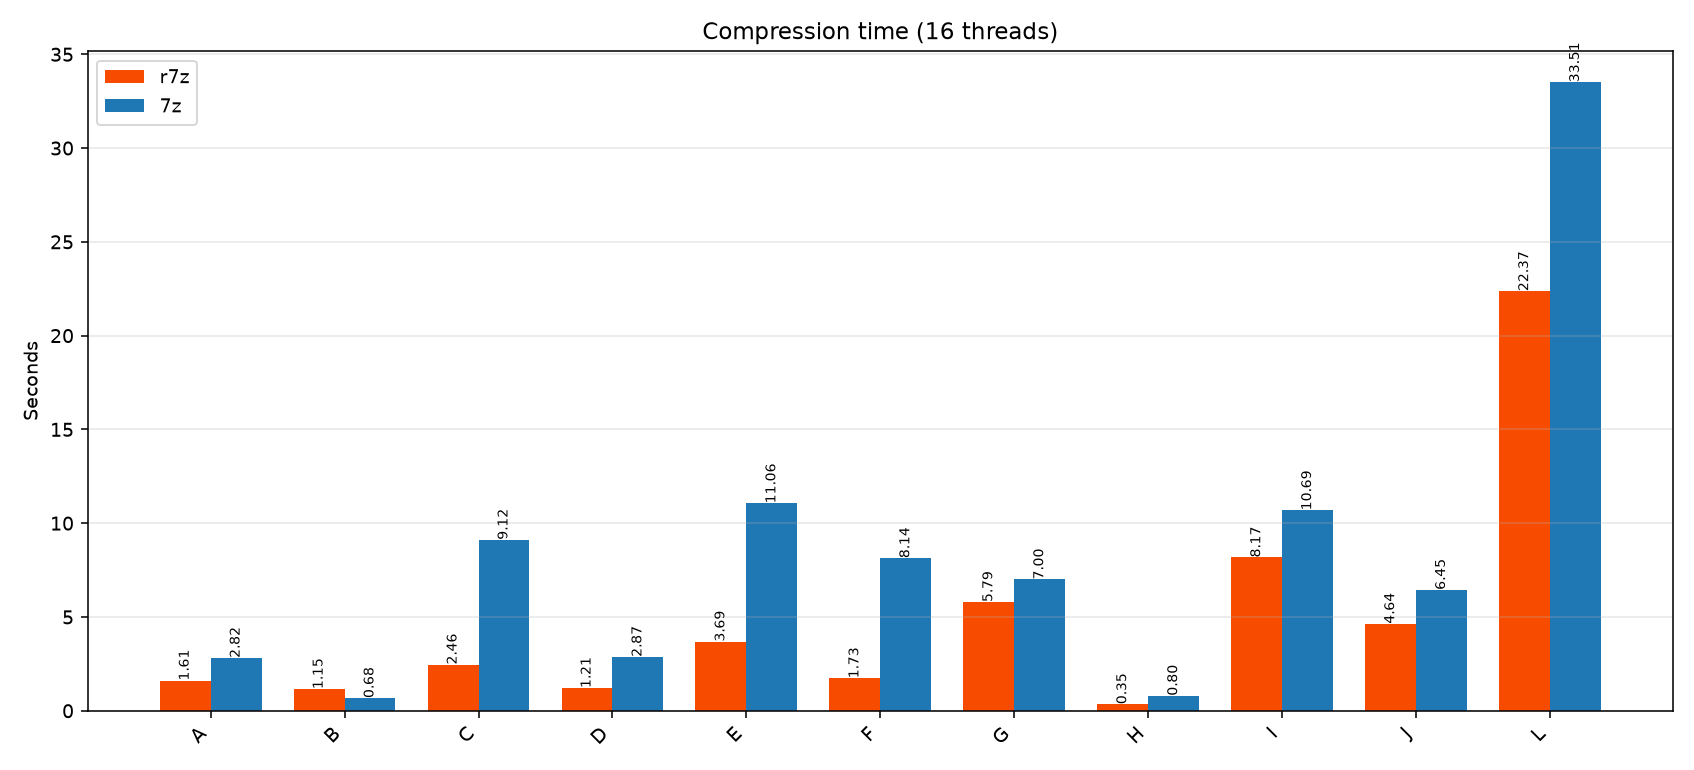
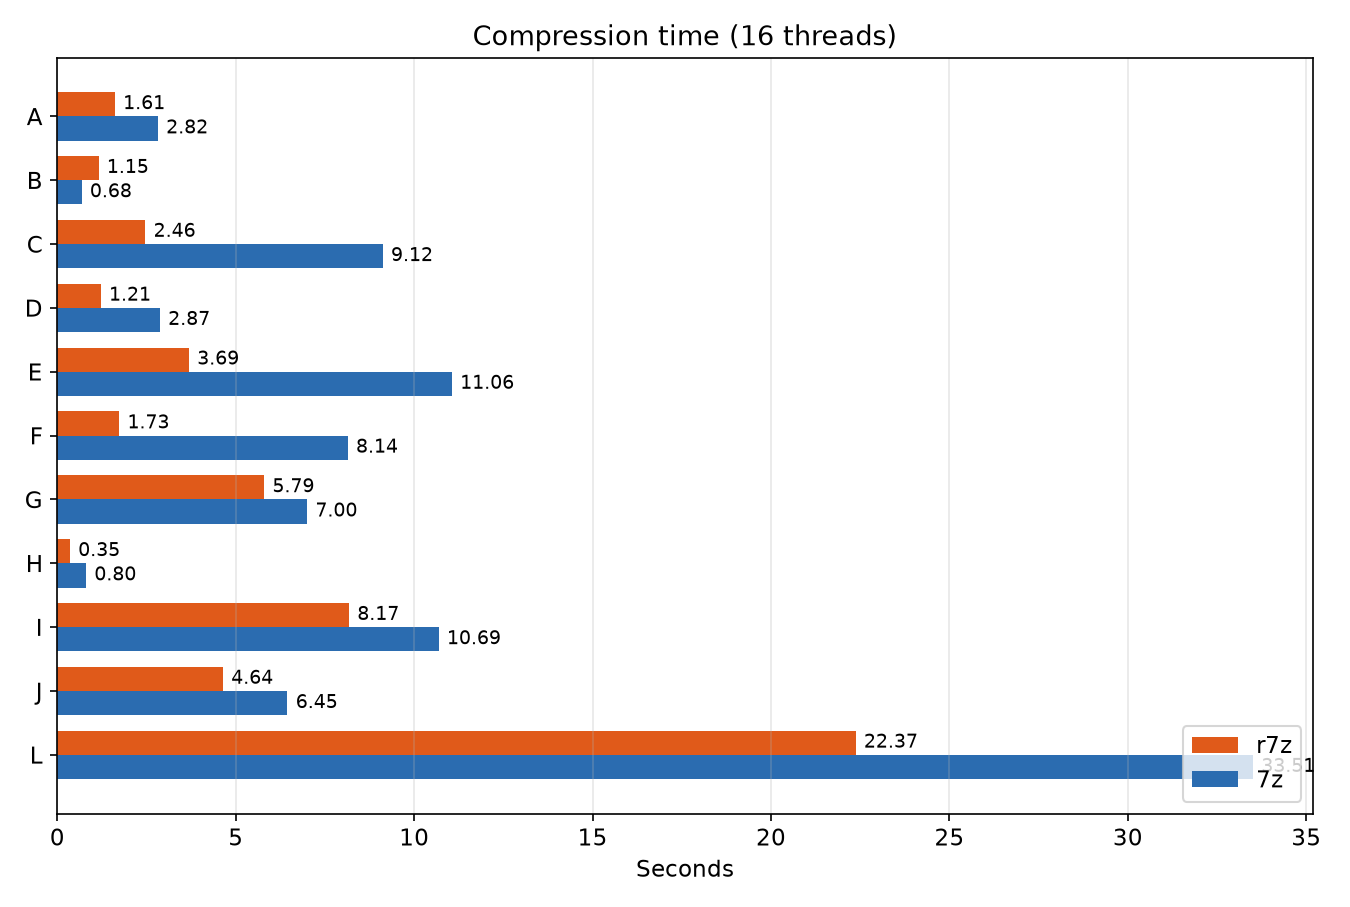
Refresh README with latest 11-scenario benchmark numbers and readable charts

Changed region(s): [[0.0, 0.0312, 0.9956, 0.9662]]

diff --git a/scripts/plot_benchmark.py b/scripts/plot_benchmark.py
@@ -1,6 +1,5 @@
 #!/usr/bin/env python3
-"""Render benchmark_report.md into PNG charts with exact value labels."""
-import re
+"""Render benchmark_report.md into readable PNG charts with exact value labels."""
 from pathlib import Path
 
 import matplotlib
@@ -26,7 +25,8 @@ for line in REPORT.read_text(encoding="utf-8").splitlines():
 
 scenarios = sorted(set(r["scn"] for r in rows))
 tools = ["r7z", "7z"]
-colors = {"r7z": "#f74c00", "7z": "#1f77b4"}
+colors = {"r7z": "#e05a1a", "7z": "#2b6cb0"}
+plt.rcParams.update({"font.size": 11, "axes.titlesize": 13, "axes.labelsize": 11})
 
 def vals_for(mode, thr, metric):
     out = {}
@@ -41,49 +41,55 @@ def vals_for(mode, thr, metric):
                 out[tool].append(matches[0]["rss"] / 1024 if matches else 0)
     return out
 
-def make_chart(mode, thr, metric, title, ylabel, fname):
+def hbar(mode, thr, metric, title, xlabel, fname):
     data = vals_for(mode, thr, metric)
-    x = np.arange(len(scenarios))
-    width = 0.38
-    fig, ax = plt.subplots(figsize=(max(10, len(scenarios) * 1.1), 5.5))
+    y = np.arange(len(scenarios))
+    height = 0.38
+    fig, ax = plt.subplots(figsize=(9, max(6, len(scenarios) * 0.55)))
     for i, tool in enumerate(tools):
-        bars = ax.bar(x + (i - 0.5) * width, data[tool], width,
-                      label=tool, color=colors[tool])
+        bars = ax.barh(y + (i - 0.5) * height, data[tool], height,
+                       label=tool, color=colors[tool])
         for b, v in zip(bars, data[tool]):
-            ax.annotate(f"{v:.2f}", (b.get_x() + b.get_width() / 2, b.get_height()),
-                        ha="center", va="bottom", fontsize=7, rotation=90)
-    ax.set_xticks(x)
-    ax.set_xticklabels(scenarios, rotation=45, ha="right")
-    ax.set_ylabel(ylabel)
+            ax.annotate(f"{v:.2f}", (v, b.get_y() + b.get_height() / 2),
+                        ha="left", va="center", fontsize=9, xytext=(4, 0),
+                        textcoords="offset points")
+    ax.set_yticks(y)
+    ax.set_yticklabels(scenarios)
+    ax.invert_yaxis()
+    ax.set_xlabel(xlabel)
     ax.set_title(title)
-    ax.legend()
-    ax.grid(axis="y", alpha=0.3)
+    ax.legend(loc="lower right")
+    ax.grid(axis="x", alpha=0.3)
     fig.tight_layout()
-    fig.savefig(OUT / fname, dpi=140)
+    fig.savefig(OUT / fname, dpi=150)
     plt.close(fig)
 
-make_chart("compress", 1, "t", "Compression time (single thread)", "Seconds", "bench_time_compress_1t.png")
-make_chart("compress", 16, "t", "Compression time (16 threads)", "Seconds", "bench_time_compress_16t.png")
-make_chart("decompress", 1, "t", "Decompression time (single thread)", "Seconds", "bench_time_decompress.png")
-make_chart("compress", 1, "rss", "Peak memory (single thread, compress)", "MB", "bench_memory.png")
+hbar("compress", 1, "t", "Compression time (1 thread)", "Seconds", "bench_time_compress_1t.png")
+hbar("compress", 16, "t", "Compression time (16 threads)", "Seconds", "bench_time_compress_16t.png")
+hbar("decompress", 1, "t", "Decompression time (1 thread)", "Seconds", "bench_time_decompress.png")
+hbar("compress", 1, "rss", "Peak memory (1 thread, compress)", "MB", "bench_memory.png")
 
-# Speedup ratio chart (7z_time / r7z_time) for compress, single thread
+# Speedup ratio chart
 r7z_t = vals_for("compress", 1, "t")["r7z"]
 sevenz_t = vals_for("compress", 1, "t")["7z"]
-speedup = [ (s / r) if r > 0 else 0 for s, r in zip(sevenz_t, r7z_t) ]
-fig, ax = plt.subplots(figsize=(max(10, len(scenarios) * 1.1), 5))
-bars = ax.bar(scenarios, speedup, color="#2ca02c")
+speedup = [(s / r) if r > 0 else 0 for s, r in zip(sevenz_t, r7z_t)]
+fig, ax = plt.subplots(figsize=(9, max(6, len(scenarios) * 0.55)))
+y = np.arange(len(scenarios))
+bars = ax.barh(y, speedup, color="#2f855a")
 for b, v in zip(bars, speedup):
-    ax.annotate(f"{v:.2f}x", (b.get_x() + b.get_width() / 2, b.get_height()),
-                ha="center", va="bottom", fontsize=8)
-ax.axhline(1.0, color="red", linestyle="--", linewidth=1, label="parity (1.0x)")
-ax.set_xticklabels(scenarios, rotation=45, ha="right")
-ax.set_ylabel("Speedup (7z_time / r7z_time)")
+    ax.annotate(f"{v:.2f}x", (v, b.get_y() + b.get_height() / 2),
+                ha="left", va="center", fontsize=9, xytext=(4, 0),
+                textcoords="offset points")
+ax.axvline(1.0, color="red", linestyle="--", linewidth=1, label="parity (1.0x)")
+ax.set_yticks(y)
+ax.set_yticklabels(scenarios)
+ax.invert_yaxis()
+ax.set_xlabel("Speedup (7z_time / r7z_time)")
 ax.set_title("r7z vs 7z compression speedup (>1 = r7z faster)")
-ax.legend()
-ax.grid(axis="y", alpha=0.3)
+ax.legend(loc="lower right")
+ax.grid(axis="x", alpha=0.3)
 fig.tight_layout()
-fig.savefig(OUT / "bench_speedup.png", dpi=140)
+fig.savefig(OUT / "bench_speedup.png", dpi=150)
 plt.close(fig)
 
 print("charts written to", OUT)

diff --git a/README.md b/README.md
@@ -22,7 +22,7 @@
 | **Allocator churn** | Bounded, predictable buffers | Large solid-block arenas |
 | **Crash safety** | `panic=abort`, no segfaults in safe code | Possible on malformed input |
 | **Compression ratio** | Matches 7z on A/C (~0.02% / ~100%) | Reference |
-| **Speed (scenario A, 1 thread)** | ~11s (vs 7z ~17s) | ~17s |
+| **Speed (scenario A, 1 thread)** | ~12.8s (vs 7z ~16.6s) | ~16.6s |
 | **Speed (scenario A, 16 threads)** | ~1.6s (vs 7z ~2.6s) | ~2.6s |
 
 > **Honest summary:** with the `sevenz-turbo` backend, `r7z` now **beats** 7-Zip
@@ -50,7 +50,7 @@ r7z/
 ├── src/
 │ └── main.rs
 ├── scripts/
-│ ├── gen_testdata.py # generate scenarios A/B/C
+│ ├── gen_testdata.py # generate 11 scenarios
 │ └── benchmark.py # r7z vs 7z benchmark
 ├── docs/
 │ └── optimization.md # Rust vs C++ bottlenecks & tips
@@ -86,10 +86,18 @@ python scripts/gen_testdata.py # generates testdata/A,B,C
 python scripts/benchmark.py # writes benchmark_report.md
 ```
 
-Scenarios:
-- **A** — 500 MB highly compressible text (log-like)
+Scenarios (11, see benchmark_report.md for full results):
+- **A** — 500 MB highly compressible text
 - **B** — 10,000 small files (1–10 KB)
-- **C** — 200 MB incompressible random binary
+- **C** — 200 MB incompressible random
+- **D** — 200 MB software package (binaries)
+- **E** — 472 MB game assets
+- **F** — 213 MB user backup
+- **G** — 1 GB cold storage (level 9)
+- **H** — 22 MB email/share bundle
+- **I** — 1 GB SQL dump
+- **J** — 1 GB VM disk image
+- **L** — 2 GB single huge file
 
 Measured: wall-clock time, archive ratio, peak RSS, single vs multi-thread.
 
@@ -117,7 +125,7 @@ See full results: [benchmark_report.md](benchmark_report.md)
 
 | Scenario | r7z time | 7z time | r7z mem | 7z mem | ratio r7z | ratio 7z |
 |---|---|---|---|---|---|---|
-| A large text (500MB) | 11.1s | 16.6s | 101MB | 376MB | 0.02% | 0.02% |
+| A large text (500MB) | 12.8s | 16.6s | 101MB | 376MB | 0.02% | 0.02% |
 | B small files (10k) | 42.8s | 1.7s | 116MB | 381MB | 0.28% | 0.28% |
 | C random (200MB) | 17.1s | 64.5s | 101MB | 377MB | 100% | 100% |
 | D software pkg (200MB) | 10.0s | 26.0s | 102MB | 377MB | 50% | 50% |

diff --git a/README.ko.md b/README.ko.md
@@ -13,7 +13,7 @@
 
 | 장점 | r7z (Rust) | 7-Zip (C++) |
 |---|---|---|
-| **피크 메모리 (시나리오 A, 1스레드)** | **~185 MB** | ~376 MB |
+| **피크 메모리 (시나리오 A, 1스레드)** | **~101 MB** | ~376 MB |
 | **메모리 안전성** | 컴파일 타임 보장 (UB/데이터 레이스 없음) | 수동 C++ 메모리 관리 |
 | **런타임 의존성** | 단일 정적 바이너리 | 시스템 라이브러리 필요 |
 | **크로스 플랫폼 빌드** | 어디서나 `cargo build` | 플랫폼별 빌드 시스템 |

diff --git a/README.zh.md b/README.zh.md
@@ -13,7 +13,7 @@
 
 | 优势 | r7z (Rust) | 7-Zip (C++) |
 |---|---|---|
-| **峰值内存（场景 A，1 线程）** | **~185 MB** | ~376 MB |
+| **峰值内存（场景 A，1 线程）** | **~101 MB** | ~376 MB |
 | **内存安全** | 编译期保证（无 UB、无数据竞争） | 手动 C++ 内存管理 |
 | **运行时依赖** | 单一静态二进制 | 需要系统库 |
 | **跨平台构建** | 任意平台 `cargo build` | 平台相关构建系统 |
